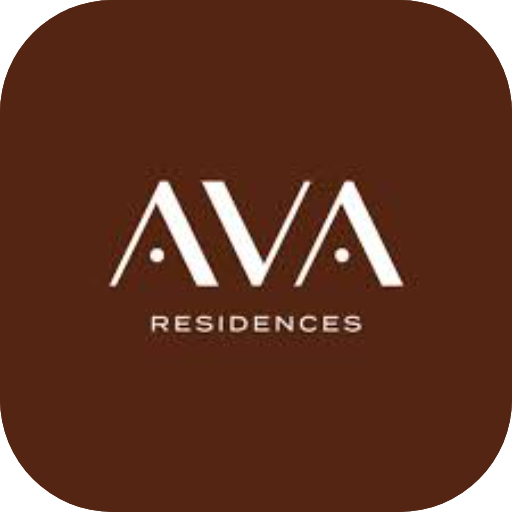
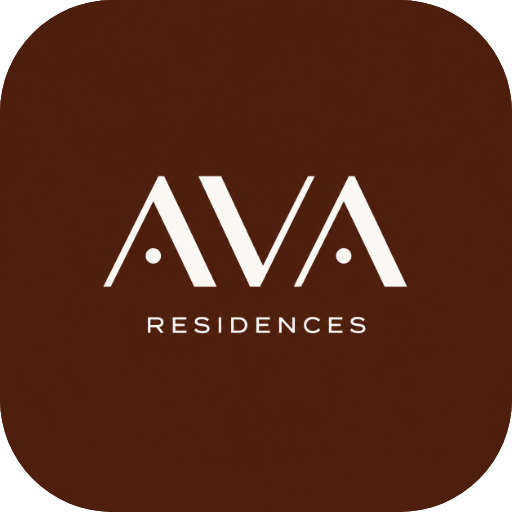
Portal do cliente: AVA (c/ava)

diff --git a/app/c/ava/index.html b/app/c/ava/index.html
@@ -6,7 +6,7 @@
 <meta http-equiv="Content-Security-Policy" content="default-src 'self'; script-src 'self' https://cdnjs.cloudflare.com https://www.gstatic.com; style-src 'self' 'unsafe-inline' https://cdnjs.cloudflare.com; img-src 'self' data: blob: https:; font-src 'self' data:; connect-src 'self' https://script.google.com https://script.googleusercontent.com https://fcmregistrations.googleapis.com https://fcm.googleapis.com https://firebaseinstallations.googleapis.com; frame-src blob: data:; worker-src 'self'; manifest-src 'self'; object-src 'none'; base-uri 'self'; form-action 'self'">
 <meta name="viewport" content="width=device-width, initial-scale=1, viewport-fit=cover">
 <title>AVA</title>
-<meta name="theme-color" content="#552614">
+<meta name="theme-color" content="#4E1E0D">
 <meta name="mobile-web-app-capable" content="yes">
 <meta name="apple-mobile-web-app-capable" content="yes">
 <meta name="apple-mobile-web-app-status-bar-style" content="default">

diff --git a/app/c/ava/cliente.js b/app/c/ava/cliente.js
@@ -1,2 +1,2 @@
 // gerado pelo cadastro de clientes do sistema (não editar à mão)
-window.CLIENTE = {"id":"CL001","slug":"ava","nome":"AVA","empresa":"CLAUDIO","cor":"#552614","capa":"c/ava/capa.jpg"};
+window.CLIENTE = {"id":"CL001","slug":"ava","nome":"AVA","empresa":"CLAUDIO","cor":"#4E1E0D","capa":"c/ava/capa.jpg"};
